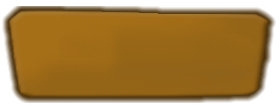
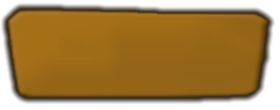
better looking monster tabs

Changed region(s): [[0.0, 0.0273, 0.9143, 0.9273], [0.8857, 0.1364, 1.0, 0.8727]]

diff --git a/front/src/components-lib/monsterProfil/MonsterProfil.scss b/front/src/components-lib/monsterProfil/MonsterProfil.scss
@@ -2,57 +2,90 @@
 
 .sm-monsterprofil {
 	height: calc(100% - 20px);
+
 	@media screen and (max-width: $screen-md) {
 		margin: 10% 0 !important;
 	}
+
 	@media screen and (min-width: $screen-md) {
 		margin-left: 10% !important;
     	width: 90% !important;
 	}
-	.sm-monster-tab {
-		background-color: $marron2;
-		color: $color-text;
-	    text-align: center;
-	    display: inline-block;
-	    position: absolute;
-	    padding: 20px;
-	    border-radius: 10px;
-	    width: 115px;
-	    font-size: 20px;
-	    cursor: pointer;
-    	@media screen and (max-width: $screen-xs) {
-			top: 0;
-			left: 15%;
-		}
-    	@media screen and (min-width: $screen-xs) and (max-width: $screen-sm) {
-			top: 5%;
-			left: 25%;
-		}
-    	@media screen and (min-width: $screen-sm) and (max-width: $screen-md) {
-			top: 10%;
-    		left: 35%;
-		}
-	    @media screen and (min-width: $screen-md) {
-			left: -2%;
-    		top: 25%;
-		}
-		@media screen and (min-width: $screen-lg) {
-			left: 2%;
-    		top: 25%;
-		}
-	    &:hover {
-	    	color: $yellow;
-			background-color: $yellow-dark;
-	    }
+
+    .sm-monster-tab {
+        z-index: 100;
+        background-size: contain;
+        color: #937F78;
+        text-align: center;
+        display: inline-block;
+        position: absolute;
+        border-radius: 10px;
+        width: 140px;
+        height: 55px;
+        line-height: 55px;
+        font-size: 18px;
+        cursor: pointer;
+        padding-right: 25px;
+        text-shadow: 
+            2px 2px 3px black,
+            2px -2px 3px black,
+            -2px -2px 3px black,
+            -2px 2px 3px black;
+
+        &:hover {
+            color: $color-text;
+            &:after {
+                content: url(/assets/images/ui/corner.png);
+            }
+        }
+        &:after {
+            position: absolute;
+            content: url(/assets/images/ui/corner_sepia.png);
+            transform: scale(0.5);
+            right: 0;
+            top: -4px;
+        }
+        &.sm-monster-tab-active {
+            color: $yellow;
+            &:after {
+                content: url(/assets/images/ui/arrow.png);
+            }
+        }
+
+        @media screen and (max-width: $screen-xs) {
+            top: 0;
+            left: 15%;
+        }
+        @media screen and (min-width: $screen-xs) and (max-width: $screen-sm) {
+            top: 5%;
+            left: 25%;
+        }
+        @media screen and (min-width: $screen-sm) and (max-width: $screen-md) {
+            top: 10%;
+            left: 35%;
+        }
+        @media screen and (min-width: $screen-md) {
+            left: -2%;
+            top: 25%;
+        }
+        @media screen and (min-width: $screen-lg) {
+            left: 2%;
+            top: 25%;
+        }
+    }
+
+	.sm-monster-tab-info {
+		background-image: url(/assets/images/ui/tile1_inactive.png);
+        &.sm-monster-tab-active {
+            background-image: url(/assets/images/ui/tile1_active.png);
+        }
 	}
-	.sm-monster-tab-active {
-		color: $yellow;
-		background-color: $yellow-dark;
-	}
-	.sm-monster-tab-hide {
-		display:none;
-	}
-	.sm-monster-tab2 {
+	
+	.sm-monster-tab-rune {
+        background-image: url(/assets/images/ui/tile2_inactive.png);
+        &.sm-monster-tab-active {
+            background-image: url(/assets/images/ui/tile2_active.png);
+        }
 		@media screen and (max-width: $screen-xs) {
 			left: 55%;
 		}
@@ -63,4 +96,8 @@
 			top: 40%;
 		}
 	}
+
+    .sm-monster-tab-hide {
+        display:none;
+    }
 }

diff --git a/front/src/components-lib/monsterProfil/MonsterProfil.jsx b/front/src/components-lib/monsterProfil/MonsterProfil.jsx
@@ -30,8 +30,16 @@ class MonsterProfil extends React.Component {
     render() { 
         return (
         <div className="sm-sheet sm-monsterprofil">
-            <div className={"sm-monster-tab " + (this.state.currentPage === 'infos' ? 'sm-monster-tab-active' : "")} onClick={this.onClickInfos}>Infos</div>
-            <div className={"sm-monster-tab sm-monster-tab2 " + (this.state.currentPage === 'runes' ? 'sm-monster-tab-active' : "") + (!this.state.monsterHaveRunes ? "sm-monster-tab-hide" : "")} onClick={this.onClickRunes}>Runes</div>
+            <div 
+                className={"sm-monster-tab sm-monster-tab-info " + (this.state.currentPage === 'infos' ? 'sm-monster-tab-active' : "")} 
+                onClick={this.onClickInfos}>
+                Infos
+            </div>
+            <div 
+                className={"sm-monster-tab sm-monster-tab-rune " + (this.state.currentPage === 'runes' ? 'sm-monster-tab-active' : "") + (!this.state.monsterHaveRunes ? "sm-monster-tab-hide" : "")} 
+                onClick={this.onClickRunes}>
+                Runes
+            </div>
             { this._buildMonsterProfil(this.state.currentPage) }
         </div>
     )}
